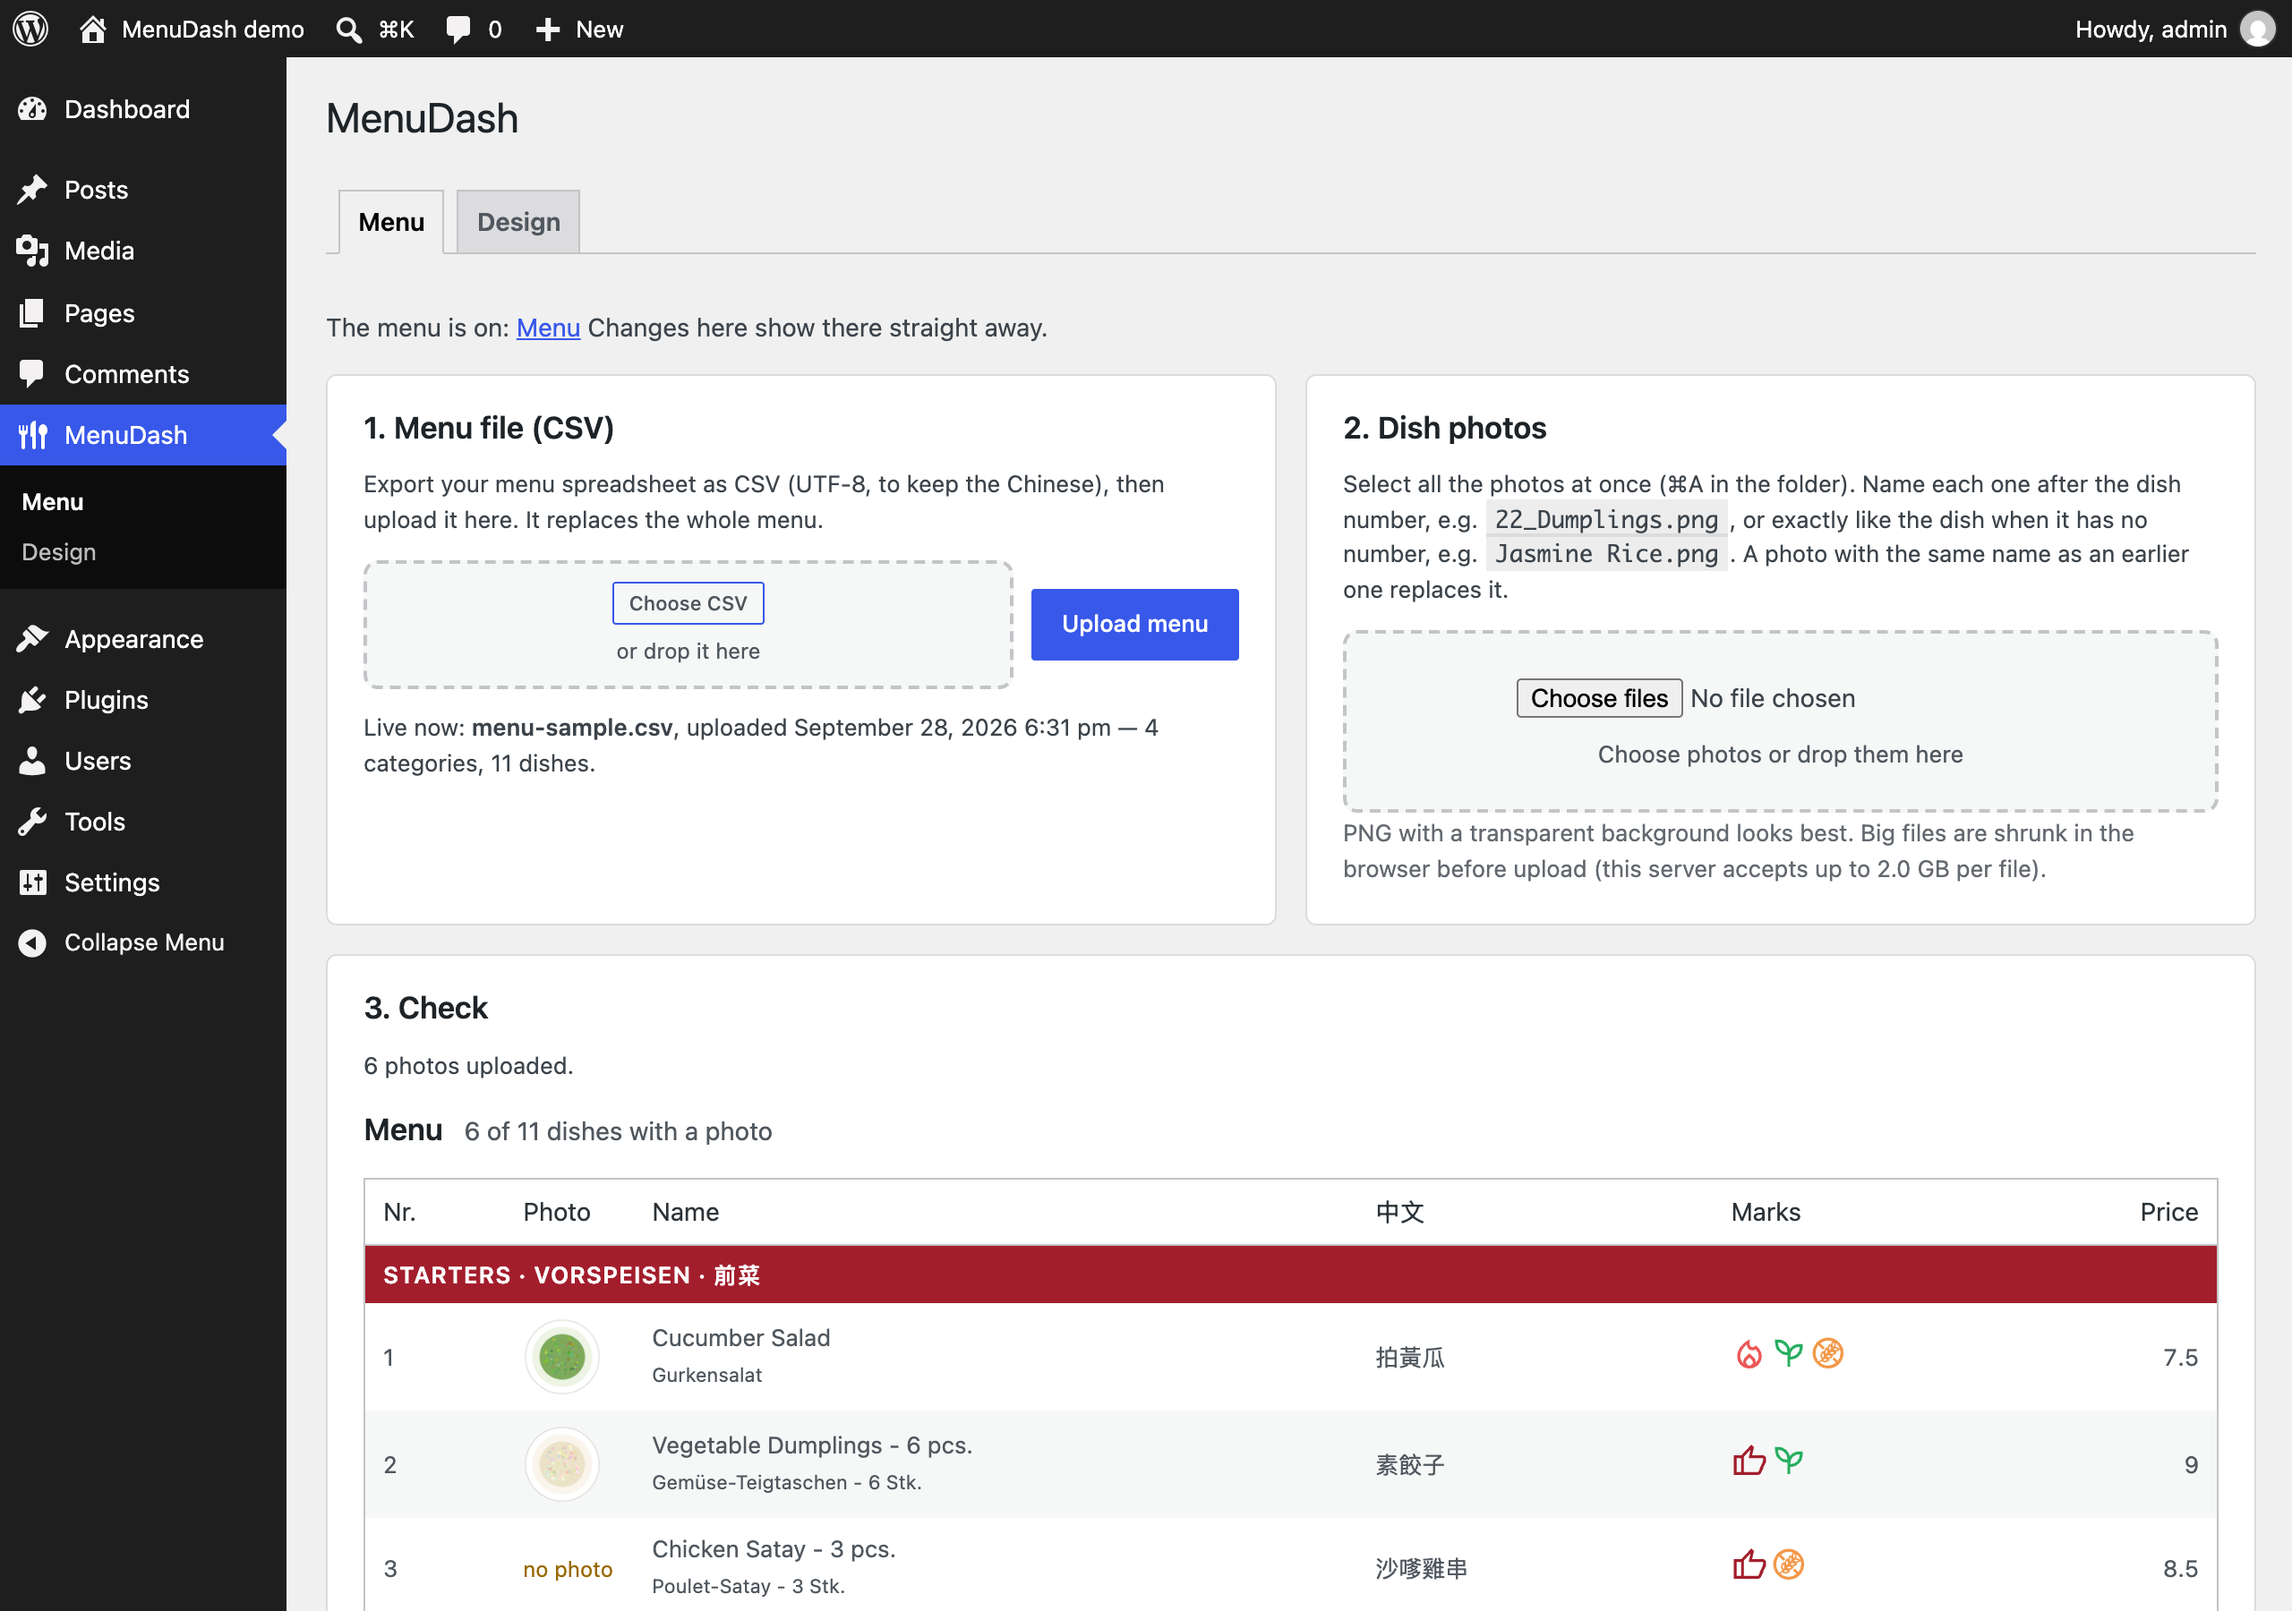
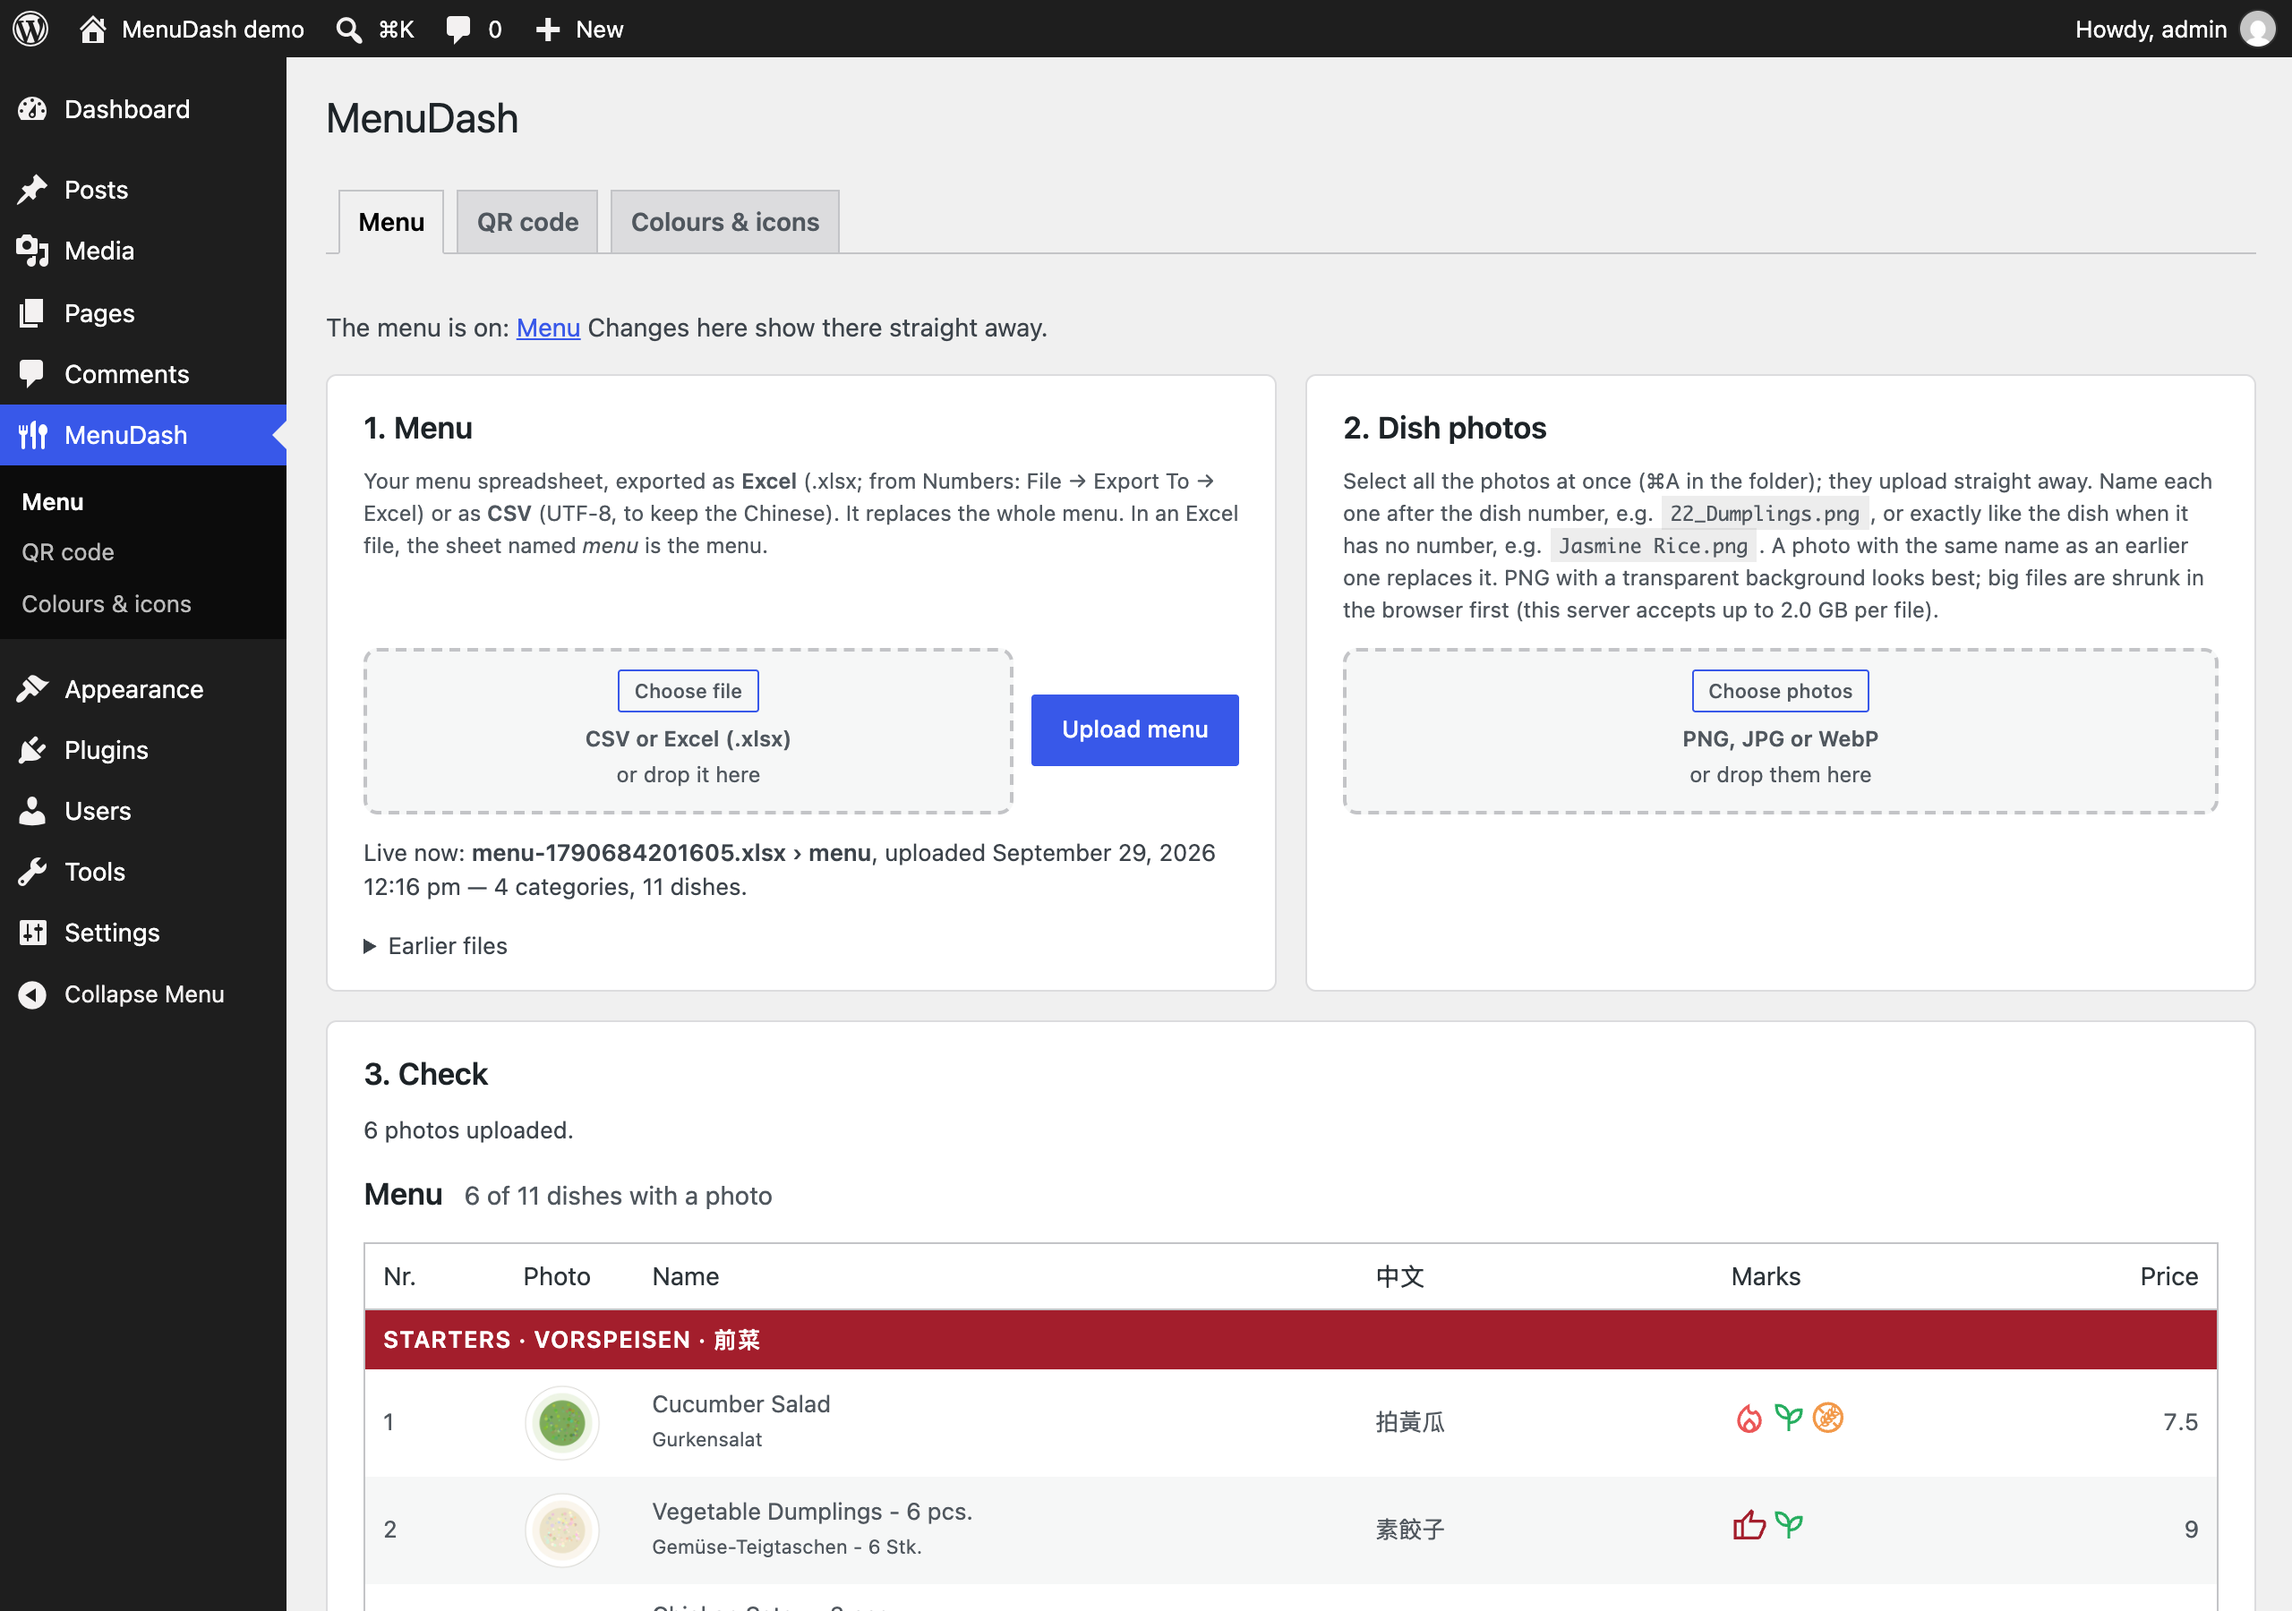
Docs: new screenshots for 2.1.0
All dashboard pictures retaken (Menu tab with the upload cards in one row, the
Colours & icons tab) and new ones for the QR code tab and print sheet, meat and fish
origin (dashboard and under the menu) and the Excel upload report.

diff --git a/docs/GUIDE.md b/docs/GUIDE.md
@@ -36,6 +36,10 @@ The menu page changes right away, and a message says how many categories and dis
 
 <img src="dashboard/02b-report-message.png" alt="The message after uploading the CSV" width="720">
 
+With an Excel file, the message lists each sheet:
+
+<img src="dashboard/24-excel-upload.png" alt="After an Excel upload: the menu sheet, and the sheets not used" width="720">
+
 **Undo:** open *Earlier files* under the upload button and click **Put back** next to an older upload. The last five uploads are kept.
 
 <img src="dashboard/03-earlier-files.png" alt="Earlier files, each with a Put back button" width="460">
@@ -93,6 +97,14 @@ Below the uploads is a list of every dish with its photo, or **"no photo"**, plu
 Under **MenuDash → Menu → Meat and fish origin**, list where your meat and fish come from: choose a product (or **Other** and type its name in each language), type the countries in German or English ("Schweiz, Deutschland"), or tick **Ask our staff**. MenuDash translates products and the usual countries into the three menu languages; a country it doesn't know stays as typed. The list shows under the menu (can be switched off) and on any page with `[menudash_origin]` — `lang="de"` for one language, `title="no"` without the heading.
 
 ## QR code and table cards
+
+<img src="dashboard/22-meat-origin.png" alt="Meat and fish origin: products, countries, a German preview" width="720">
+
+<img src="dashboard/23-origin-menu.png" alt="The list under the menu, with the allergy note" width="720">
+
+<img src="dashboard/20-qr-code.png" alt="The QR code tab with a live preview of the card" width="820">
+
+<img src="dashboard/21-qr-sheet.png" alt="The print sheet: four A6 table cards on A4" width="460">
 
 Under **MenuDash → QR code** is a QR code that opens your menu on the guest's phone, with a preview that changes while you type (scan the screen with your phone to test it).
 

diff --git a/README.md b/README.md
@@ -44,6 +44,14 @@ The dashboard page **MenuDash** has three tabs, each also in the sidebar: **Menu
 |---|---|
 | ![The MenuDash upload page after a menu upload](docs/dashboard/02-menu-uploaded.png) | ![Every dish with its photo, marks and price](docs/dashboard/06-check.png) |
 
+| QR code and table cards | Meat and fish origin |
+|---|---|
+| ![The QR code tab with a live preview of the table card](docs/dashboard/20-qr-code.png) | ![Products and countries, translated into three languages](docs/dashboard/22-meat-origin.png) |
+
+| Excel upload | Under the menu |
+|---|---|
+| ![After an Excel upload: each sheet listed](docs/dashboard/24-excel-upload.png) | ![Allergy note and meat origin under the menu](docs/dashboard/23-origin-menu.png) |
+
 | Colours | |
 |---|---|
 | ![Background and highlight colours with a preview](docs/dashboard/17-colours.png) | ![The sample menu with a green highlight](docs/dashboard/19-colours-example.png) |
